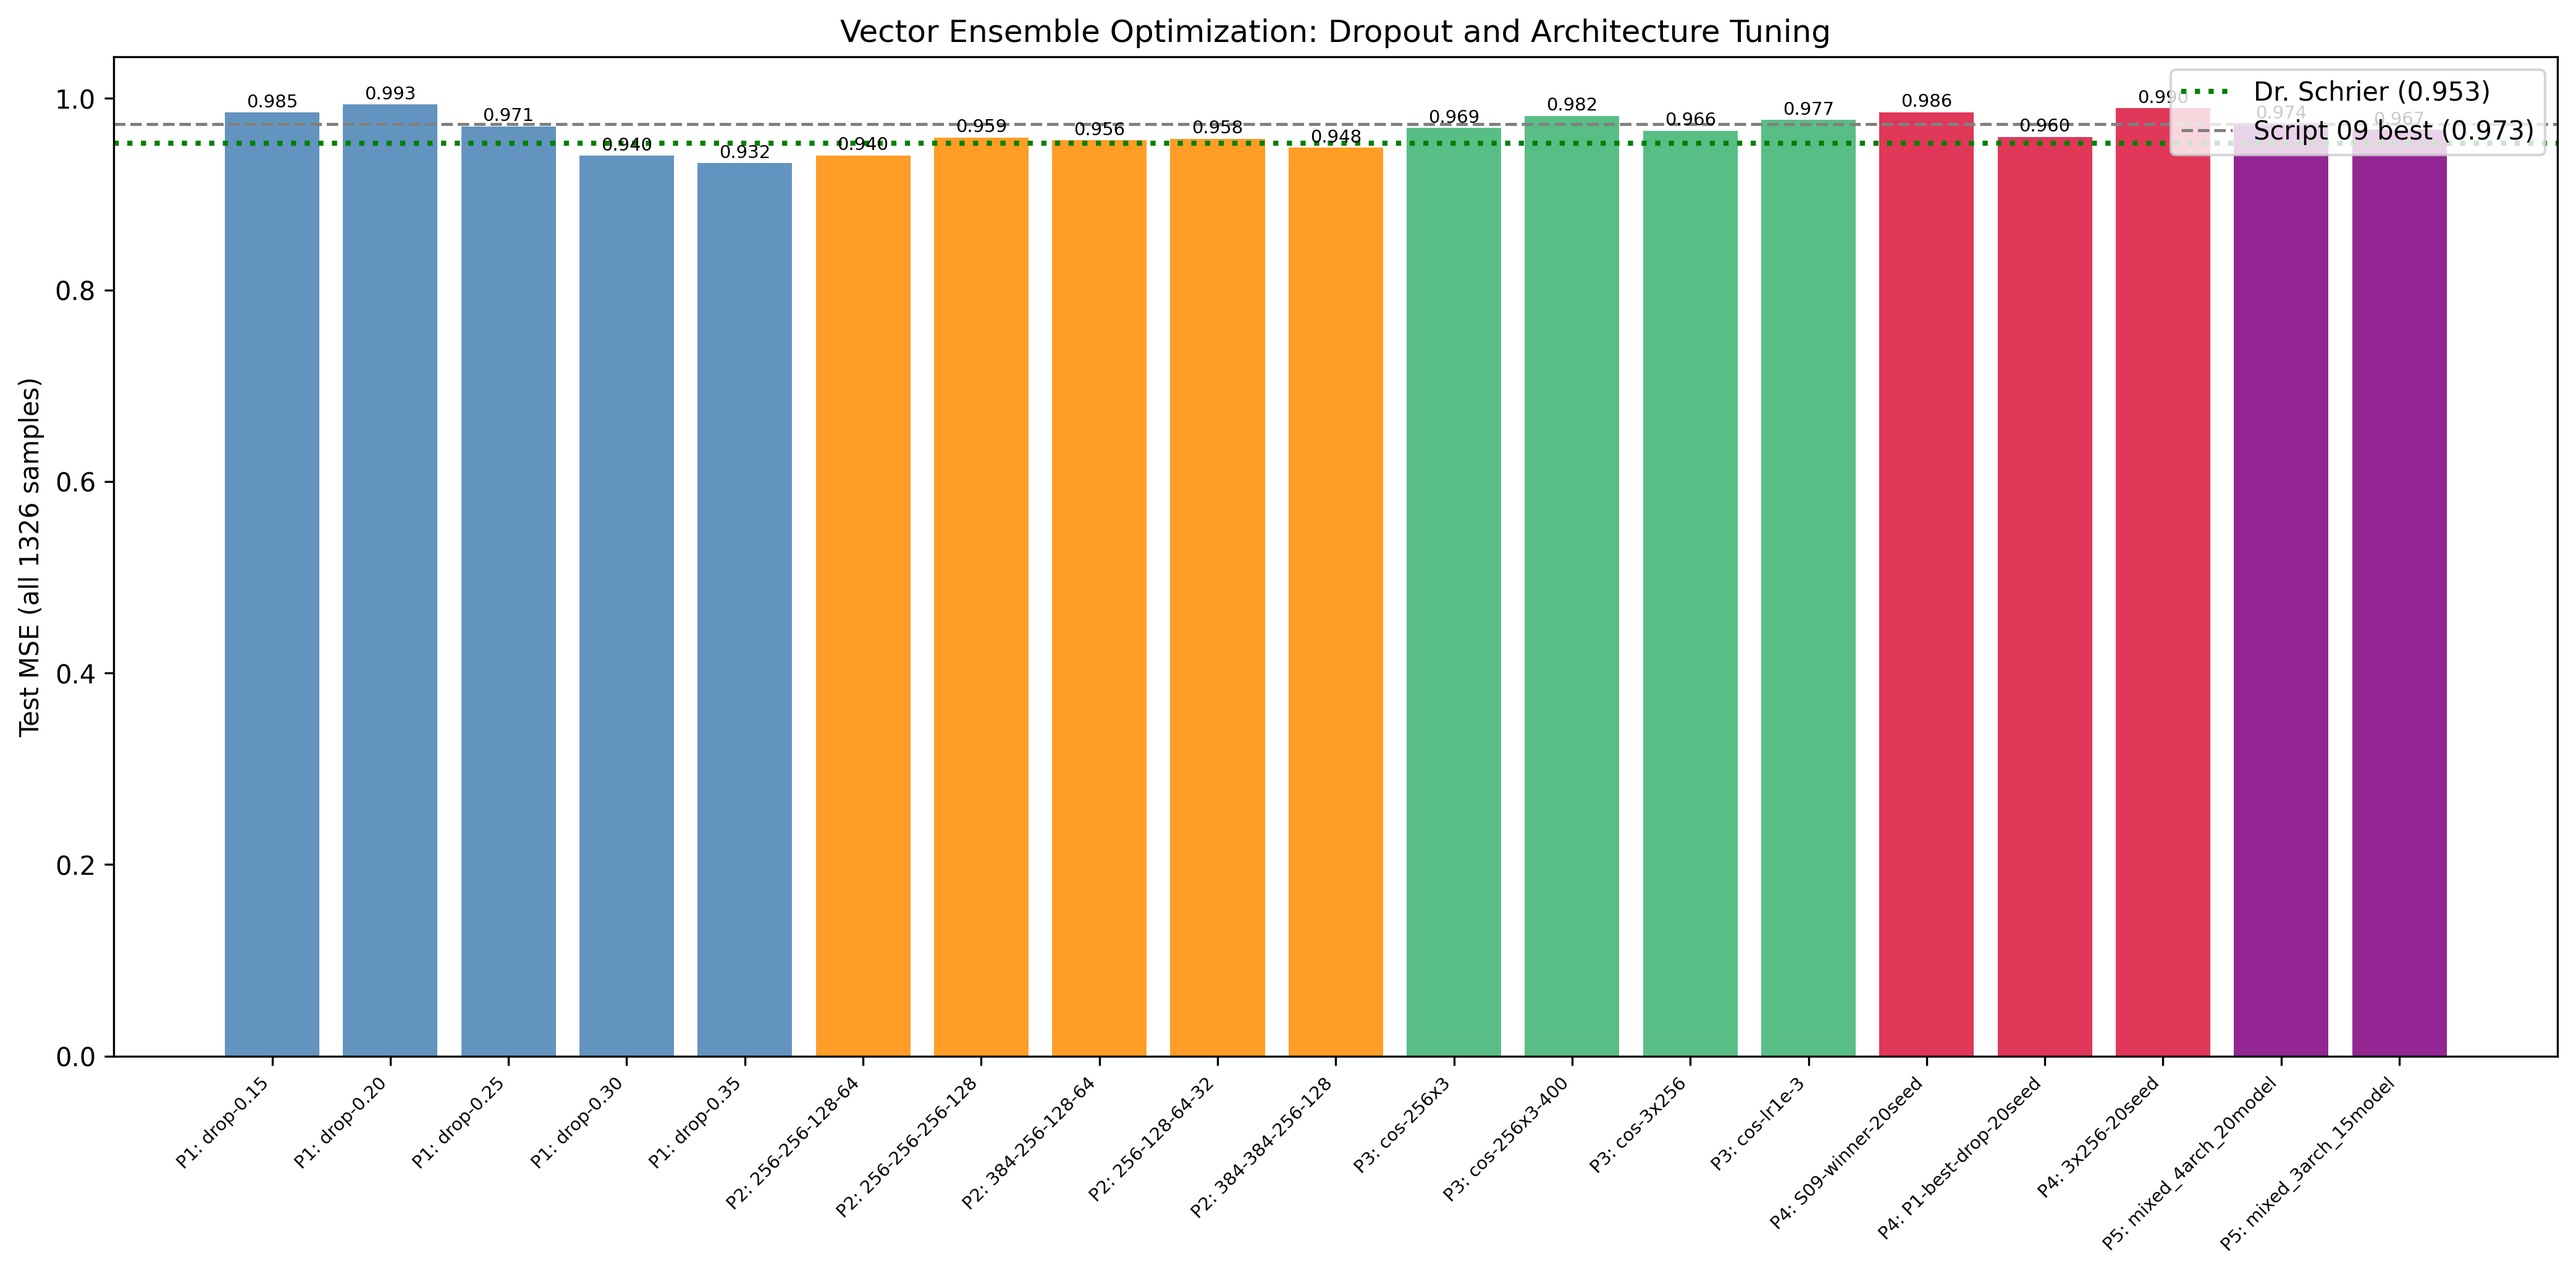
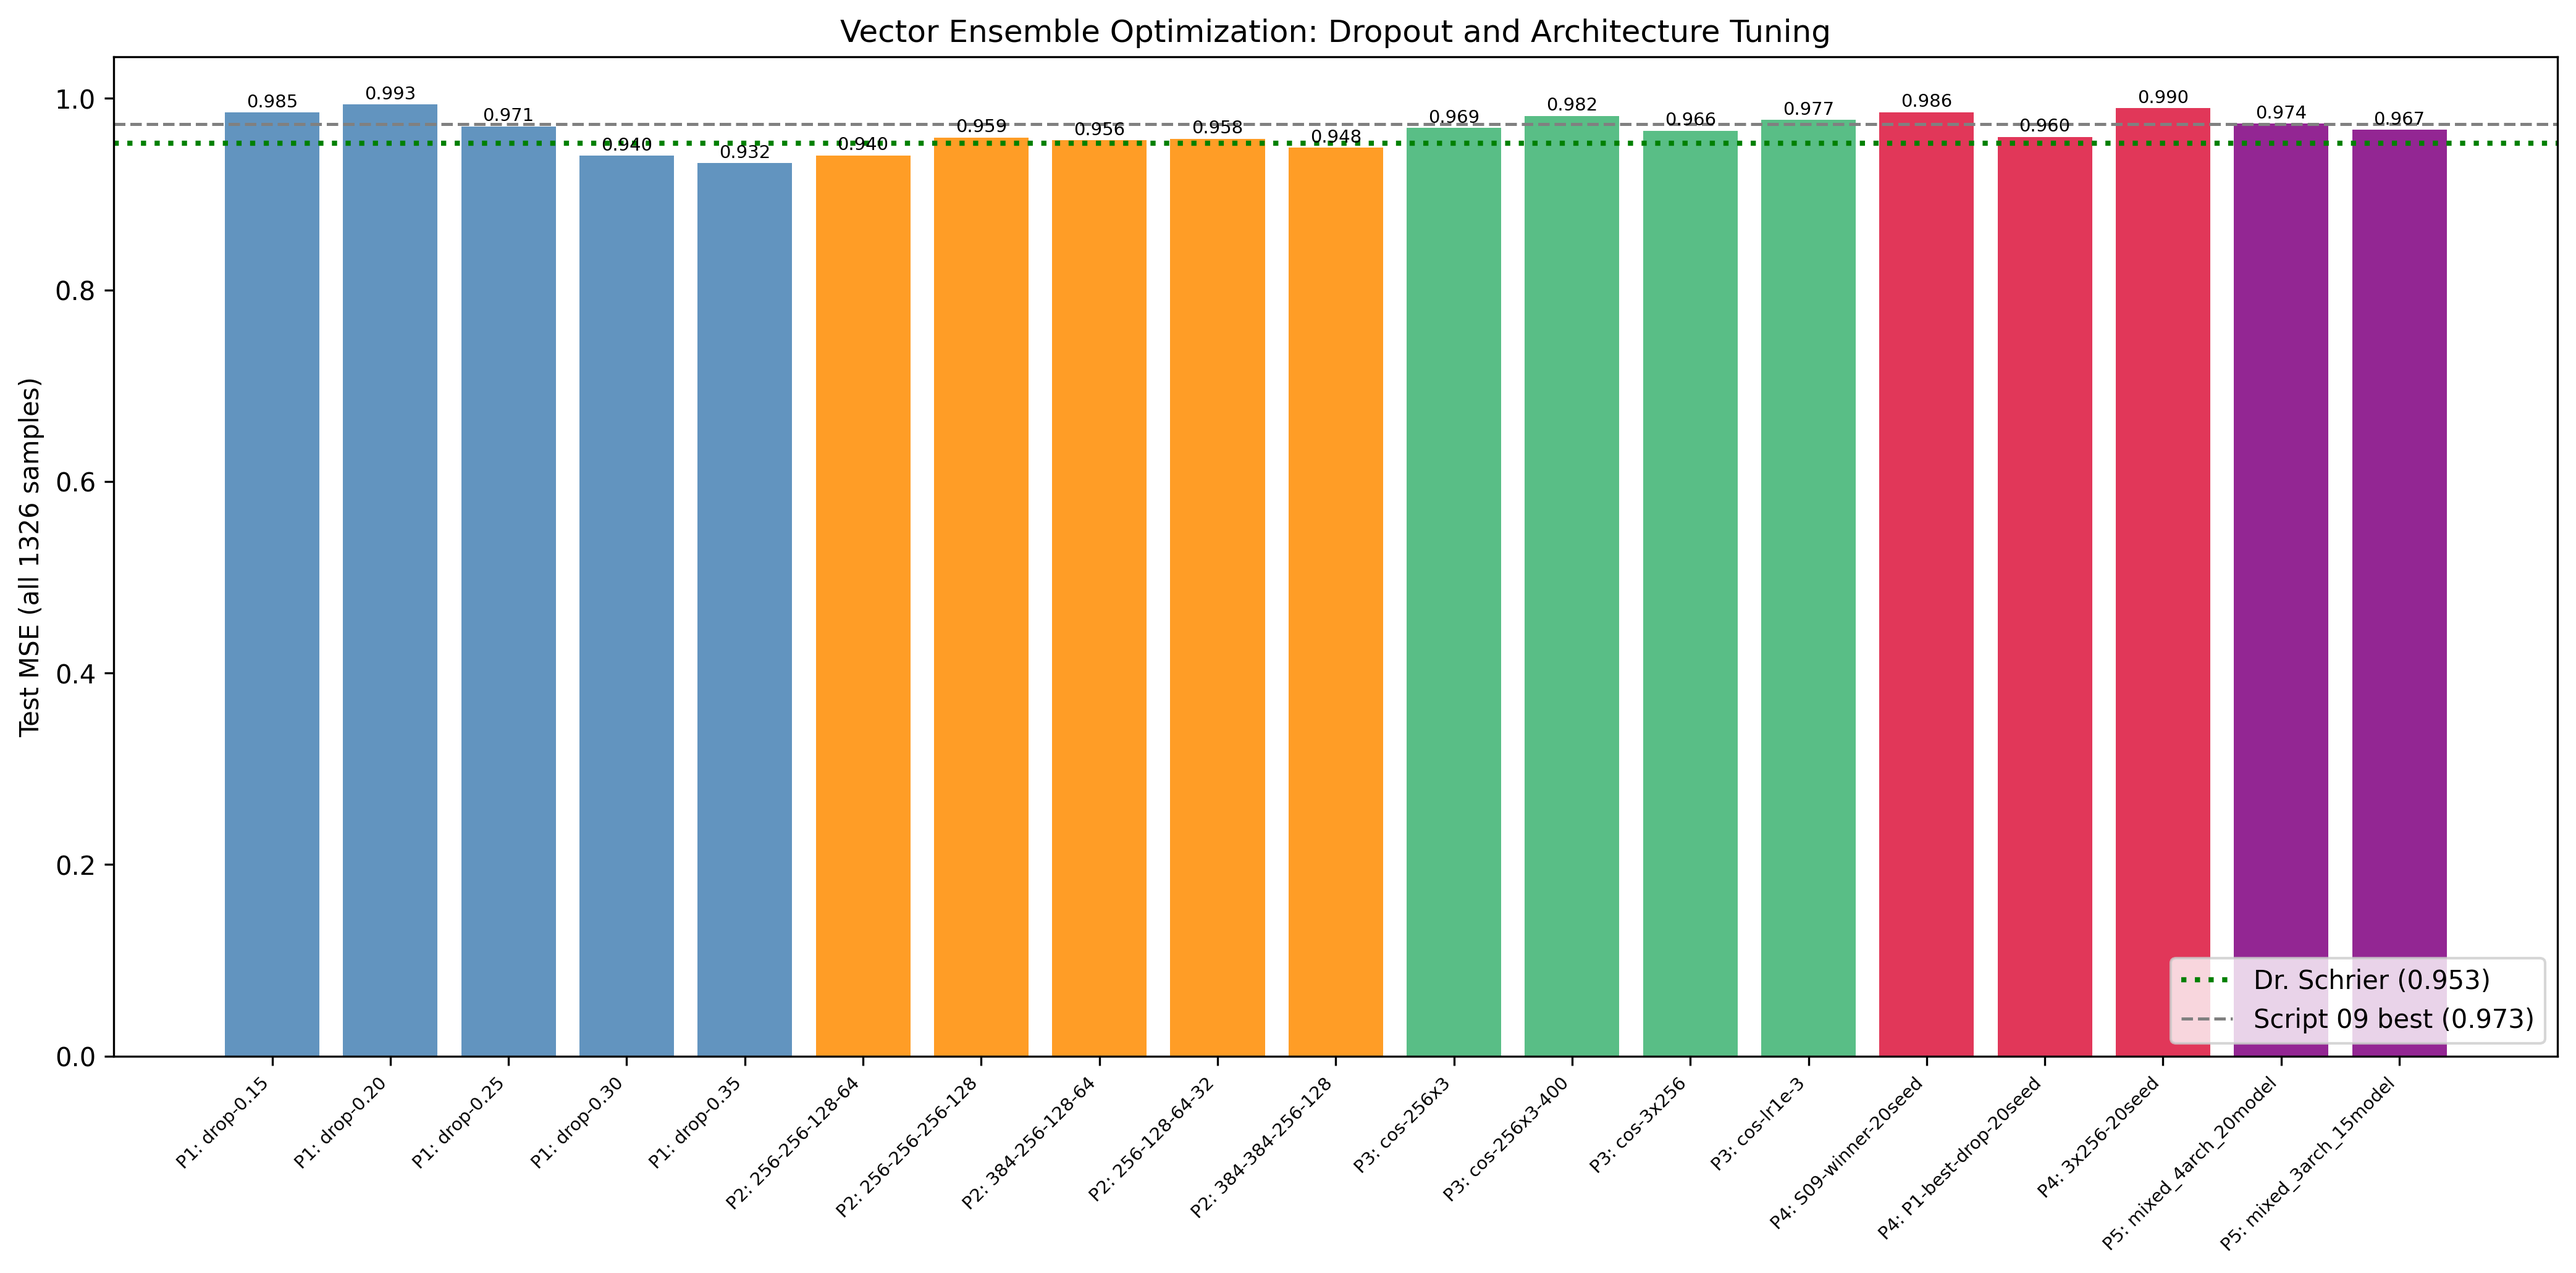
Move legend to lower right to avoid blocking bars

Changed region(s): [[0.8417, 0.7449, 0.9976, 0.838], [0.8417, 0.0621, 0.9976, 0.1242]]

diff --git a/scripts/10_vector_ensemble_optimization.py b/scripts/10_vector_ensemble_optimization.py
@@ -497,7 +497,7 @@ def _make_figure(results):
     ax.set_xticklabels(labels, rotation=45, ha='right', fontsize=7)
     ax.set_ylabel('Test MSE (all 1326 samples)')
     ax.set_title('Vector Ensemble Optimization: Dropout and Architecture Tuning')
-    ax.legend(loc='upper right')
+    ax.legend(loc='lower right')
 
     for bar in bars:
         h = bar.get_height()
